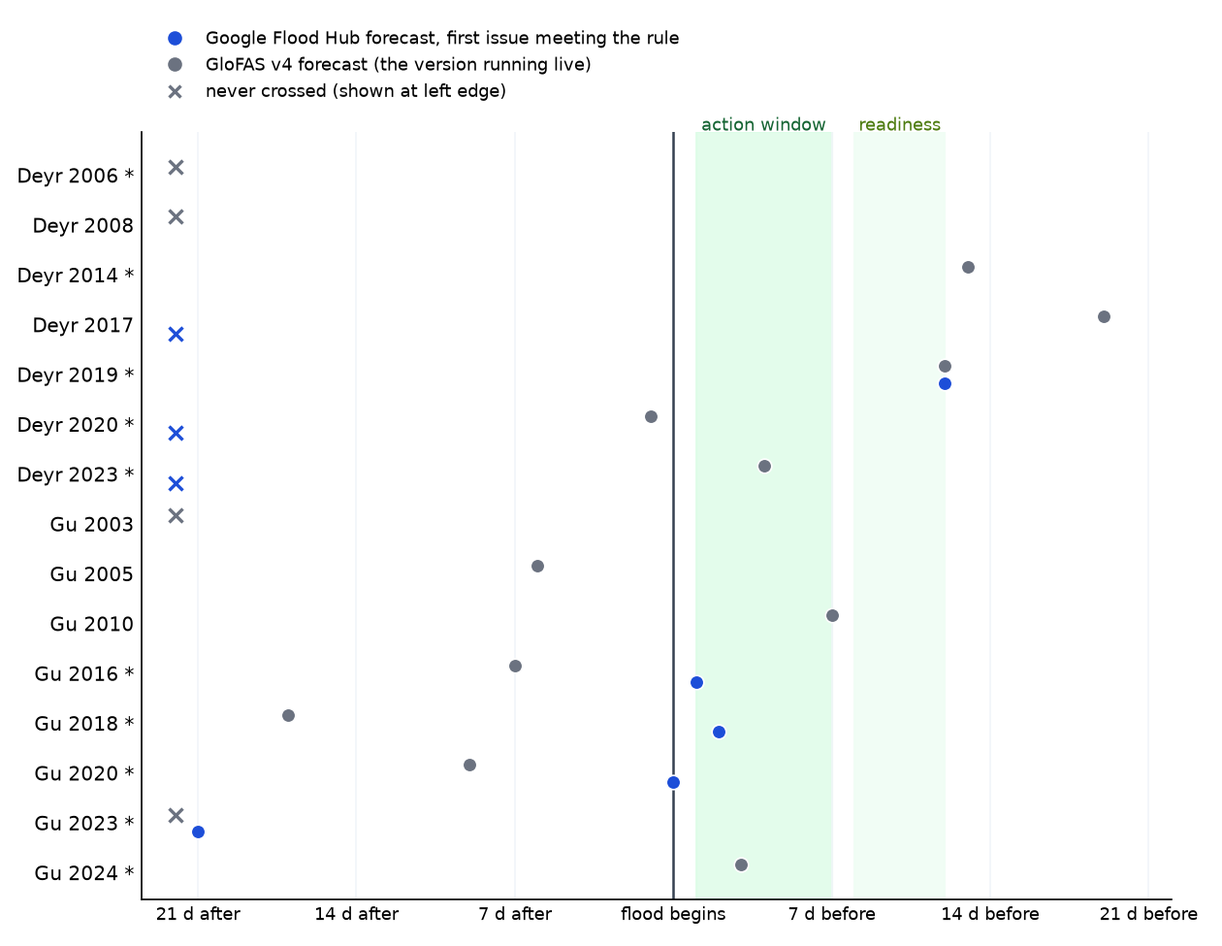
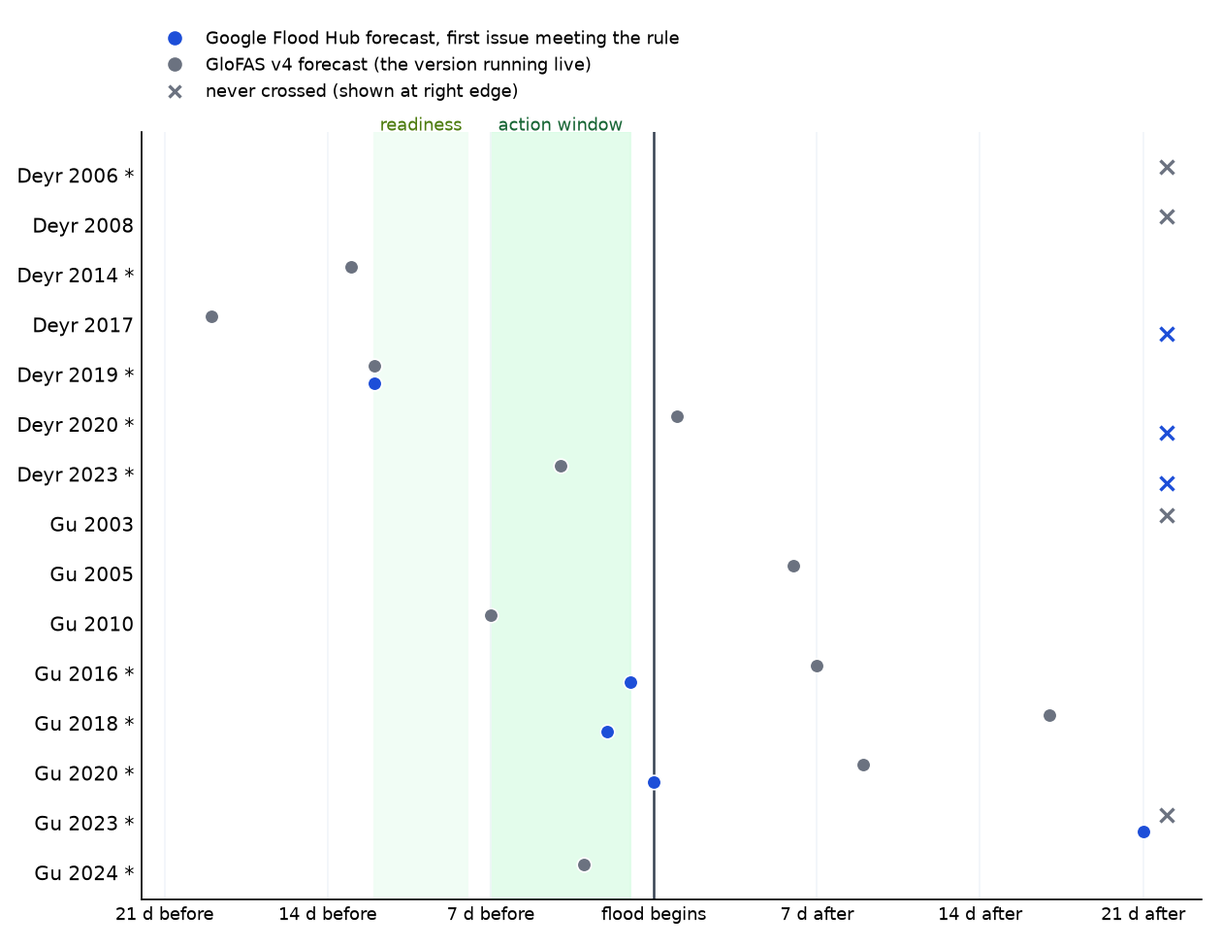
Summary page: leads plot runs left to right in time
Before the flood on the left, after on the right; the action and readiness
bands sit left of the flood line and never-crossed marks at the right edge.

diff --git a/pages/trigger-single-model/summary.html b/pages/trigger-single-model/summary.html
@@ -28,4 +28,4 @@ details{margin:14px 0} summary{cursor:pointer;font-weight:600;padding:4px 0;colo
 <header><div class="wrap"><small>Somalia Riverine Flood Trigger / summary</small>
 <h1>How we got to the trigger</h1>
 <p>From what counts as a flood to what runs live, with the evidence each choice rests on. Figures are for 1999 to 2023 unless stated. Full analysis: <a href="index.html" style="color:#fff">trigger analysis page</a>.</p></div></header>
-<div class="wrap"><h2>The trigger</h2><p>Two rivers, two rainy seasons, four windows. Each window runs on one forecast source and one rule; any one window activating releases the full allocation.</p><div class='tw'><table><thead><tr><th>Window</th><th>Season</th><th>Source</th><th>Rule</th><th>Gauges</th></tr></thead><tbody><tr><td>Deyr Juba</td><td>October to December</td><td>GloFAS</td><td>3 of 4 gauges forecast over their own 1-in-4 level on the same day</td><td>Dollow, Luuq, Bardheere, Bualle</td></tr><tr><td>Deyr Shabelle</td><td>October to December</td><td>GloFAS</td><td>2 of 3 gauges forecast over their own 1-in-4 level on the same day</td><td>Belet Weyne, Bulo Burti, Jowhar</td></tr><tr><td>Gu Juba</td><td>March to May</td><td>Google Flood Hub</td><td>3 of 4 gauges forecast over their own 1-in-5 level on the same day</td><td>Dollow, Luuq, Bardheere, Bualle</td></tr><tr><td>Gu Shabelle</td><td>March to May</td><td>Google Flood Hub</td><td>2 of 3 gauges forecast over their own 1-in-6 level on the same day</td><td>Belet Weyne, Bulo Burti, Jowhar</td></tr></tbody></table></div><p class="note">Readiness activates 8 to 12 days ahead, on the GloFAS ensemble forecast in all windows or on a SWALIM moderate flood risk alert for either river, and releases the mobilisation share; action activates 1 to 7 days ahead and releases the rest. Thresholds are fitted on each source's own record, so a model that runs high is judged against itself.</p><h2>What counts as a flood</h2><p>The trigger is scored against what the rivers did, from the SWALIM gauge record. A river has a flood season when two of its gauges reach their own 1-in-3 level, a severe season when two reach 1-in-5. Each gauge's levels are fitted on its own 2000 to 2023 record.</p><div class='tw'><table><thead><tr><th>Window</th><th class="n">Flood seasons</th><th class="n">Severe</th><th>Severe years</th></tr></thead><tbody><tr><td>Deyr Juba</td><td class="n">5</td><td class="n">3</td><td>2006, 2014, 2023</td></tr><tr><td>Deyr Shabelle</td><td class="n">6</td><td class="n">5</td><td>2006, 2014, 2019, 2020, 2023</td></tr><tr><td>Gu Juba</td><td class="n">6</td><td class="n">3</td><td>2018, 2020, 2023</td></tr><tr><td>Gu Shabelle</td><td class="n">7</td><td class="n">3</td><td>2016, 2020, 2023</td></tr></tbody></table></div><p class="note">Across both rivers: 12 flood years, 7 severe. Gauges are capped at bank full, so the largest floods record the same reading, and a season where only one gauge crosses does not count even at bank full (Gu 2021 at Belet Weyne).</p><h2>Which source, and why</h2><p>Three global models were candidates: Google Flood Hub, GloFAS and GEOGloWS. GEOGloWS runs 4 to 10 times too high on the Shabelle and has no forecast archive, so it drops out. The other two were tested twice on each window: do they order the flood seasons the way the gauges did, and do they catch the severe seasons when the window's rule is applied to their own record.</p><div class='tw'><table><thead><tr><th>Window</th><th class="n">Agreement: Google</th><th class="n">GloFAS v5</th><th class="n">GloFAS v4</th><th class="n">Severe caught: Google</th><th class="n">GloFAS v5</th><th class="n">GloFAS v4</th><th>Chosen</th></tr></thead><tbody><tr><td>Deyr Juba</td><td class="n">0.36</td><td class="n pick">0.32</td><td class="n">0.63</td><td class="n">2 of 3, 3 false</td><td class="n pick">2 of 3, 0 false</td><td class="n">2 of 3, 3 false</td><td>GloFAS</td></tr><tr><td>Deyr Shabelle</td><td class="n">0.67</td><td class="n pick">0.77</td><td class="n">0.00</td><td class="n">4 of 5, 1 false</td><td class="n pick">5 of 5, 1 false</td><td class="n">3 of 5, 3 false</td><td>GloFAS</td></tr><tr><td>Gu Juba</td><td class="n pick">0.50</td><td class="n">-0.48</td><td class="n">0.05</td><td class="n pick">2 of 3, 1 false</td><td class="n">2 of 3, 0 false</td><td class="n">2 of 3, 0 false</td><td>Google Flood Hub</td></tr><tr><td>Gu Shabelle</td><td class="n pick">0.08</td><td class="n">0.04</td><td class="n">-0.49</td><td class="n pick">2 of 3, 1 false</td><td class="n">2 of 3, 0 false</td><td class="n">1 of 3, 0 false</td><td>Google Flood Hub</td></tr></tbody></table></div><figure><img src="figs/s_agreement.png" alt="Agreement with the gauges in flood seasons, by window and model"><figcaption>Agreement: rank correlation between the model's seasonal peak and the gauge's, over the gauge's own 1-in-3 seasons only (4 to 10 per gauge), median across the window's gauges. The ringed dot is the source the window runs on. Severe caught, in the table, is at the window's rule; false is activations in years with no gauge flood.</figcaption></figure><p>Google Flood Hub carries Gu: it leads on agreement, matches GloFAS on severe seasons caught (with one activation in a year with no gauge flood, 2013, that GloFAS does not have), and its Gu forecasts arrive before the flood where GloFAS v4's mostly arrive after it, as the next section shows. GloFAS carries Deyr: Google over-activates on the Juba there (three activations with no flood) and misses the Shabelle in 2020, while GloFAS's Deyr record is clean. GloFAS v4, the version running live, agrees least with the gauges (pooled 0.03 against 0.43 for Google) and catches one severe Gu season of three on the Shabelle. Gu Shabelle reads near zero on agreement for every model because the gauge is capped at bank full in the largest floods; a limit of the record, not of the models.</p><h2>How often it activates</h2><p>Every threshold sits at 1-in-3 or rarer; the vote counts were set so the whole mechanism activates about once in three years while still catching every severe season.</p><div class='tw'><table><thead><tr><th></th><th class="n">Activations, 25 years</th><th>Return period</th><th>Years</th></tr></thead><tbody><tr><td>Deyr Juba</td><td class="n">2</td><td>1-in-13.0</td><td>2006, 2023</td></tr><tr><td>Deyr Shabelle</td><td class="n">6</td><td>1-in-4.3</td><td>2006, 2013, 2014, 2019, 2020, 2023</td></tr><tr><td>Gu Juba</td><td class="n">4</td><td>1-in-6.5</td><td>2013, 2016, 2018, 2020</td></tr><tr><td>Gu Shabelle</td><td class="n">4</td><td>1-in-6.5</td><td>2013, 2016, 2018, 2020</td></tr><tr><td>Juba, either window</td><td class="n">6</td><td>1-in-4.3</td><td>2006, 2013, 2016, 2018, 2020, 2023</td></tr><tr><td>Shabelle, either window</td><td class="n">8</td><td>1-in-3.2</td><td>2006, 2013, 2014, 2016, 2018, 2019, 2020, 2023</td></tr><tr><td>Whole mechanism</td><td class="n">8</td><td>1-in-3.2</td><td>2006, 2013, 2014, 2016, 2018, 2019, 2020, 2023</td></tr></tbody></table></div><figure><img src="figs/s_activations.png" alt="Flood seasons and activations by year and window"><figcaption>Squares: gauge flood seasons, dark where severe. Dots: years the window activates on its source, Google Flood Hub in Gu and GloFAS in Deyr. 8 activations in 25 years, all 7 severe seasons caught, one activation with no gauge flood behind it (2013, a year SWALIM and WFP both record as a major flood). Return periods are Weibull, (years + 1) over activations.</figcaption></figure><h2>Checked on the forecasts</h2><p>The tests above use each model's record of the past. A trigger runs on forecasts, so the historical forecasts were replayed to find the day the alert would have gone out, at lead times of 1 to 7 days, against the day the flood began at the gauges. Either river counts. Only Google Flood Hub (2016 to 2023) and GloFAS v4 (2003 to 2023, plus the live Gu 2024 forecasts) have archives, so this is a comparison of those two.</p><figure><img src="figs/s_leads.png" alt="Lead time of the first forecast issue meeting the rule, per flood season"><figcaption>One row per flood season, * severe. Green: the action window, 1 to 7 days before the flood; pale green: readiness. Points right of the line are alerts that went out before the flood began.</figcaption></figure><p>Deyr: GloFAS v4 activated before the flood in 4 of 7 seasons and was first in 3 of the 4 both archives cover. Gu: Google was first in all 4, and on the Shabelle gave 10 to 13 days of warning in three of four seasons where GloFAS v4 gave 3 days once and nothing in the other three. The lead-time evidence and the calibration choice were made independently and agree.</p><details><summary>Flood by flood</summary><div class='tw'><table><thead><tr><th>Season</th><th>River(s) that flooded</th><th>Flood began</th><th>Google Flood Hub forecast</th><th>GloFAS v4 forecast</th><th>First</th></tr></thead><tbody><tr><td>Deyr 2006 *</td><td>Juba and Shabelle</td><td>30 Oct</td><td><span class="pill na">no archive</span></td><td><span class="pill never">never crossed</span></td><td></td></tr><tr><td>Deyr 2008</td><td>Juba and Shabelle</td><td>15 Nov</td><td><span class="pill na">no archive</span></td><td><span class="pill never">never crossed</span></td><td></td></tr><tr><td>Deyr 2014 *</td><td>Juba and Shabelle</td><td>20 Oct</td><td><span class="pill na">no archive</span></td><td><span class="pill before">13 d before</span><span class="who">Shabelle, 7 Oct</span></td><td></td></tr><tr><td>Deyr 2017</td><td>Juba</td><td>7 Nov</td><td><span class="pill never">never crossed</span></td><td><span class="pill before">19 d before</span><span class="who">Juba, 19 Oct</span></td><td>GloFAS v4</td></tr><tr><td>Deyr 2019 *</td><td>Shabelle</td><td>14 Oct</td><td><span class="pill before">12 d before</span><span class="who">Shabelle, 2 Oct</span></td><td><span class="pill before">12 d before</span><span class="who">Shabelle, 2 Oct</span></td><td>tie</td></tr><tr><td>Deyr 2020 *</td><td>Shabelle</td><td>1 Oct</td><td><span class="pill never">never crossed</span></td><td><span class="pill after">1 d after</span><span class="who">Shabelle, 2 Oct</span></td><td>GloFAS v4</td></tr><tr><td>Deyr 2023 *</td><td>Juba and Shabelle</td><td>25 Oct</td><td><span class="pill never">never crossed</span></td><td><span class="pill before">4 d before</span><span class="who">Juba, 21 Oct</span></td><td>GloFAS v4</td></tr><tr><td>Gu 2003</td><td>Shabelle</td><td>11 May</td><td><span class="pill na">no archive</span></td><td><span class="pill never">never crossed</span></td><td></td></tr><tr><td>Gu 2005</td><td>Juba and Shabelle</td><td>12 May</td><td><span class="pill na">no archive</span></td><td><span class="pill after">6 d after</span><span class="who">Shabelle, 18 May</span></td><td></td></tr><tr><td>Gu 2010</td><td>Juba and Shabelle</td><td>18 May</td><td><span class="pill na">no archive</span></td><td><span class="pill before">7 d before</span><span class="who">Shabelle, 11 May</span></td><td></td></tr><tr><td>Gu 2016 *</td><td>Juba and Shabelle</td><td>1 May</td><td><span class="pill before">1 d before</span><span class="who">Shabelle, 30 Apr</span></td><td><span class="pill after">7 d after</span><span class="who">Shabelle, 8 May</span></td><td>Google</td></tr><tr><td>Gu 2018 *</td><td>Juba and Shabelle</td><td>17 Apr</td><td><span class="pill before">2 d before</span><span class="who">Juba, 15 Apr</span></td><td><span class="pill after">17 d after</span><span class="who">Juba, 4 May</span></td><td>Google</td></tr><tr><td>Gu 2020 *</td><td>Juba and Shabelle</td><td>22 Apr</td><td><span class="pill same">same day</span><span class="who">Shabelle, 22 Apr</span></td><td><span class="pill after">9 d after</span><span class="who">Juba, 1 May</span></td><td>Google</td></tr><tr><td>Gu 2023 *</td><td>Juba and Shabelle</td><td>25 Mar</td><td><span class="pill after">32 d after</span><span class="who">Shabelle, 26 Apr</span></td><td><span class="pill never">never crossed</span></td><td>Google</td></tr><tr><td>Gu 2024 *</td><td>Juba and Shabelle</td><td>8 May</td><td><span class="pill na">no archive</span></td><td><span class="pill before">3 d before</span><span class="who">Juba, 5 May</span></td><td></td></tr></tbody></table></div></details><h2>SWALIM's alerts, and the fail-safe</h2><p>SWALIM's flood bulletins were first in 6 of the 8 seasons where both SWALIM and the window's source flagged, and in 5 seasons only SWALIM flagged. They are forward-looking and often early, so a SWALIM moderate flood risk alert for either river activates readiness. They cannot carry the action phase: CERF needs an activation basis that can be backtested, and the bulletins are expert judgement rather than a fixed rule.</p><p>If every forecast misses, a gauge at bank full is the fail-safe. On the record that would have activated 4 seasons no forecast caught, including Gu 2023 on the Shabelle, the one severe season every model missed. Where a forecast also activated, bank full came 3 to 14 days later: coverage, not lead time.</p><details><summary>SWALIM against the window's source, season by season</summary><div class='tw'><table><thead><tr><th>Season</th><th>River</th><th>SWALIM first bulletin</th><th>Who was first</th></tr></thead><tbody><tr><td>Deyr 2006</td><td>Juba</td><td>2006-10-31</td><td>GloFAS v5 2 d before SWALIM</td></tr><tr><td>Deyr 2006</td><td>Shabelle</td><td>2006-10-31</td><td>SWALIM 2 d before GloFAS v5</td></tr><tr><td>Deyr 2014</td><td>Juba</td><td>2014-10-15</td><td>SWALIM only; GloFAS v5 never crossed</td></tr><tr><td>Deyr 2014</td><td>Shabelle</td><td>2014-10-15</td><td>SWALIM 1 d before GloFAS v5</td></tr><tr><td>Deyr 2019</td><td>Juba</td><td>2019-10-22</td><td>SWALIM only; GloFAS v5 never crossed</td></tr><tr><td>Deyr 2019</td><td>Shabelle</td><td>2019-10-22</td><td>GloFAS v5 11 d before SWALIM</td></tr><tr><td>Deyr 2020</td><td>Shabelle</td><td>2020-09-08</td><td>no bulletin for the October rise</td></tr><tr><td>Deyr 2023</td><td>Juba</td><td>2023-10-20</td><td>SWALIM 9 d before GloFAS v5</td></tr><tr><td>Deyr 2023</td><td>Shabelle</td><td>2023-10-21</td><td>SWALIM 19 d before GloFAS v5</td></tr><tr><td>Gu 2016</td><td>Shabelle</td><td>no bulletin</td><td>no SWALIM bulletin; Google 12 May</td></tr><tr><td>Gu 2020</td><td>Juba</td><td>2020-04-27</td><td>SWALIM 2 d before Google</td></tr><tr><td>Gu 2020</td><td>Shabelle</td><td>2020-04-27</td><td>SWALIM 3 d before Google</td></tr><tr><td>Gu 2021</td><td>Juba</td><td>2021-05-10</td><td>SWALIM only; Google never crossed</td></tr><tr><td>Gu 2021</td><td>Shabelle</td><td>2021-05-10</td><td>SWALIM only; Google never crossed</td></tr><tr><td>Gu 2023</td><td>Shabelle</td><td>2023-05-08</td><td>SWALIM only; Google never crossed</td></tr><tr><td>Gu 2024</td><td>Juba</td><td>2024-05-09</td><td>Google record ends 2023</td></tr><tr><td>Gu 2024</td><td>Shabelle</td><td>2024-04-19</td><td>Google record ends 2023</td></tr></tbody></table></div></details><h2>What runs live, and what is open</h2><ul><li><b>GloFAS version 4 runs both phases today.</b> Deyr is calibrated on version 5, which has no published forecast yet; Gu on Google Flood Hub, to which there is no API access yet. Version 4 stands in with levels refitted on its own record.</li><li><b>Two gauges have stopped reporting</b>: Bardheere from 30 November 2023, Bualle from 14 March 2024.</li><li><b>Impact years are not yet defined.</b> The benchmark is gauge levels, not people affected; 2013 and 2021 show why an impact cross-check is the next step. Each window holds three to five severe seasons, so every difference on this page is a one- or two-event difference.</li></ul><footer>Generated 2026-09-14 from the trigger analysis outputs; every number is recomputed from them and checked against the analysis page when the page is built.</footer></div></body></html>
+<div class="wrap"><h2>The trigger</h2><p>Two rivers, two rainy seasons, four windows. Each window runs on one forecast source and one rule; any one window activating releases the full allocation.</p><div class='tw'><table><thead><tr><th>Window</th><th>Season</th><th>Source</th><th>Rule</th><th>Gauges</th></tr></thead><tbody><tr><td>Deyr Juba</td><td>October to December</td><td>GloFAS</td><td>3 of 4 gauges forecast over their own 1-in-4 level on the same day</td><td>Dollow, Luuq, Bardheere, Bualle</td></tr><tr><td>Deyr Shabelle</td><td>October to December</td><td>GloFAS</td><td>2 of 3 gauges forecast over their own 1-in-4 level on the same day</td><td>Belet Weyne, Bulo Burti, Jowhar</td></tr><tr><td>Gu Juba</td><td>March to May</td><td>Google Flood Hub</td><td>3 of 4 gauges forecast over their own 1-in-5 level on the same day</td><td>Dollow, Luuq, Bardheere, Bualle</td></tr><tr><td>Gu Shabelle</td><td>March to May</td><td>Google Flood Hub</td><td>2 of 3 gauges forecast over their own 1-in-6 level on the same day</td><td>Belet Weyne, Bulo Burti, Jowhar</td></tr></tbody></table></div><p class="note">Readiness activates 8 to 12 days ahead, on the GloFAS ensemble forecast in all windows or on a SWALIM moderate flood risk alert for either river, and releases the mobilisation share; action activates 1 to 7 days ahead and releases the rest. Thresholds are fitted on each source's own record, so a model that runs high is judged against itself.</p><h2>What counts as a flood</h2><p>The trigger is scored against what the rivers did, from the SWALIM gauge record. A river has a flood season when two of its gauges reach their own 1-in-3 level, a severe season when two reach 1-in-5. Each gauge's levels are fitted on its own 2000 to 2023 record.</p><div class='tw'><table><thead><tr><th>Window</th><th class="n">Flood seasons</th><th class="n">Severe</th><th>Severe years</th></tr></thead><tbody><tr><td>Deyr Juba</td><td class="n">5</td><td class="n">3</td><td>2006, 2014, 2023</td></tr><tr><td>Deyr Shabelle</td><td class="n">6</td><td class="n">5</td><td>2006, 2014, 2019, 2020, 2023</td></tr><tr><td>Gu Juba</td><td class="n">6</td><td class="n">3</td><td>2018, 2020, 2023</td></tr><tr><td>Gu Shabelle</td><td class="n">7</td><td class="n">3</td><td>2016, 2020, 2023</td></tr></tbody></table></div><p class="note">Across both rivers: 12 flood years, 7 severe. Gauges are capped at bank full, so the largest floods record the same reading, and a season where only one gauge crosses does not count even at bank full (Gu 2021 at Belet Weyne).</p><h2>Which source, and why</h2><p>Three global models were candidates: Google Flood Hub, GloFAS and GEOGloWS. GEOGloWS runs 4 to 10 times too high on the Shabelle and has no forecast archive, so it drops out. The other two were tested twice on each window: do they order the flood seasons the way the gauges did, and do they catch the severe seasons when the window's rule is applied to their own record.</p><div class='tw'><table><thead><tr><th>Window</th><th class="n">Agreement: Google</th><th class="n">GloFAS v5</th><th class="n">GloFAS v4</th><th class="n">Severe caught: Google</th><th class="n">GloFAS v5</th><th class="n">GloFAS v4</th><th>Chosen</th></tr></thead><tbody><tr><td>Deyr Juba</td><td class="n">0.36</td><td class="n pick">0.32</td><td class="n">0.63</td><td class="n">2 of 3, 3 false</td><td class="n pick">2 of 3, 0 false</td><td class="n">2 of 3, 3 false</td><td>GloFAS</td></tr><tr><td>Deyr Shabelle</td><td class="n">0.67</td><td class="n pick">0.77</td><td class="n">0.00</td><td class="n">4 of 5, 1 false</td><td class="n pick">5 of 5, 1 false</td><td class="n">3 of 5, 3 false</td><td>GloFAS</td></tr><tr><td>Gu Juba</td><td class="n pick">0.50</td><td class="n">-0.48</td><td class="n">0.05</td><td class="n pick">2 of 3, 1 false</td><td class="n">2 of 3, 0 false</td><td class="n">2 of 3, 0 false</td><td>Google Flood Hub</td></tr><tr><td>Gu Shabelle</td><td class="n pick">0.08</td><td class="n">0.04</td><td class="n">-0.49</td><td class="n pick">2 of 3, 1 false</td><td class="n">2 of 3, 0 false</td><td class="n">1 of 3, 0 false</td><td>Google Flood Hub</td></tr></tbody></table></div><figure><img src="figs/s_agreement.png" alt="Agreement with the gauges in flood seasons, by window and model"><figcaption>Agreement: rank correlation between the model's seasonal peak and the gauge's, over the gauge's own 1-in-3 seasons only (4 to 10 per gauge), median across the window's gauges. The ringed dot is the source the window runs on. Severe caught, in the table, is at the window's rule; false is activations in years with no gauge flood.</figcaption></figure><p>Google Flood Hub carries Gu: it leads on agreement, matches GloFAS on severe seasons caught (with one activation in a year with no gauge flood, 2013, that GloFAS does not have), and its Gu forecasts arrive before the flood where GloFAS v4's mostly arrive after it, as the next section shows. GloFAS carries Deyr: Google over-activates on the Juba there (three activations with no flood) and misses the Shabelle in 2020, while GloFAS's Deyr record is clean. GloFAS v4, the version running live, agrees least with the gauges (pooled 0.03 against 0.43 for Google) and catches one severe Gu season of three on the Shabelle. Gu Shabelle reads near zero on agreement for every model because the gauge is capped at bank full in the largest floods; a limit of the record, not of the models.</p><h2>How often it activates</h2><p>Every threshold sits at 1-in-3 or rarer; the vote counts were set so the whole mechanism activates about once in three years while still catching every severe season.</p><div class='tw'><table><thead><tr><th></th><th class="n">Activations, 25 years</th><th>Return period</th><th>Years</th></tr></thead><tbody><tr><td>Deyr Juba</td><td class="n">2</td><td>1-in-13.0</td><td>2006, 2023</td></tr><tr><td>Deyr Shabelle</td><td class="n">6</td><td>1-in-4.3</td><td>2006, 2013, 2014, 2019, 2020, 2023</td></tr><tr><td>Gu Juba</td><td class="n">4</td><td>1-in-6.5</td><td>2013, 2016, 2018, 2020</td></tr><tr><td>Gu Shabelle</td><td class="n">4</td><td>1-in-6.5</td><td>2013, 2016, 2018, 2020</td></tr><tr><td>Juba, either window</td><td class="n">6</td><td>1-in-4.3</td><td>2006, 2013, 2016, 2018, 2020, 2023</td></tr><tr><td>Shabelle, either window</td><td class="n">8</td><td>1-in-3.2</td><td>2006, 2013, 2014, 2016, 2018, 2019, 2020, 2023</td></tr><tr><td>Whole mechanism</td><td class="n">8</td><td>1-in-3.2</td><td>2006, 2013, 2014, 2016, 2018, 2019, 2020, 2023</td></tr></tbody></table></div><figure><img src="figs/s_activations.png" alt="Flood seasons and activations by year and window"><figcaption>Squares: gauge flood seasons, dark where severe. Dots: years the window activates on its source, Google Flood Hub in Gu and GloFAS in Deyr. 8 activations in 25 years, all 7 severe seasons caught, one activation with no gauge flood behind it (2013, a year SWALIM and WFP both record as a major flood). Return periods are Weibull, (years + 1) over activations.</figcaption></figure><h2>Checked on the forecasts</h2><p>The tests above use each model's record of the past. A trigger runs on forecasts, so the historical forecasts were replayed to find the day the alert would have gone out, at lead times of 1 to 7 days, against the day the flood began at the gauges. Either river counts. Only Google Flood Hub (2016 to 2023) and GloFAS v4 (2003 to 2023, plus the live Gu 2024 forecasts) have archives, so this is a comparison of those two.</p><figure><img src="figs/s_leads.png" alt="Lead time of the first forecast issue meeting the rule, per flood season"><figcaption>One row per flood season, * severe. Green: the action window, 1 to 7 days before the flood; pale green: readiness. Points left of the line are alerts that went out before the flood began; points to the right came after it.</figcaption></figure><p>Deyr: GloFAS v4 activated before the flood in 4 of 7 seasons and was first in 3 of the 4 both archives cover. Gu: Google was first in all 4, and on the Shabelle gave 10 to 13 days of warning in three of four seasons where GloFAS v4 gave 3 days once and nothing in the other three. The lead-time evidence and the calibration choice were made independently and agree.</p><details><summary>Flood by flood</summary><div class='tw'><table><thead><tr><th>Season</th><th>River(s) that flooded</th><th>Flood began</th><th>Google Flood Hub forecast</th><th>GloFAS v4 forecast</th><th>First</th></tr></thead><tbody><tr><td>Deyr 2006 *</td><td>Juba and Shabelle</td><td>30 Oct</td><td><span class="pill na">no archive</span></td><td><span class="pill never">never crossed</span></td><td></td></tr><tr><td>Deyr 2008</td><td>Juba and Shabelle</td><td>15 Nov</td><td><span class="pill na">no archive</span></td><td><span class="pill never">never crossed</span></td><td></td></tr><tr><td>Deyr 2014 *</td><td>Juba and Shabelle</td><td>20 Oct</td><td><span class="pill na">no archive</span></td><td><span class="pill before">13 d before</span><span class="who">Shabelle, 7 Oct</span></td><td></td></tr><tr><td>Deyr 2017</td><td>Juba</td><td>7 Nov</td><td><span class="pill never">never crossed</span></td><td><span class="pill before">19 d before</span><span class="who">Juba, 19 Oct</span></td><td>GloFAS v4</td></tr><tr><td>Deyr 2019 *</td><td>Shabelle</td><td>14 Oct</td><td><span class="pill before">12 d before</span><span class="who">Shabelle, 2 Oct</span></td><td><span class="pill before">12 d before</span><span class="who">Shabelle, 2 Oct</span></td><td>tie</td></tr><tr><td>Deyr 2020 *</td><td>Shabelle</td><td>1 Oct</td><td><span class="pill never">never crossed</span></td><td><span class="pill after">1 d after</span><span class="who">Shabelle, 2 Oct</span></td><td>GloFAS v4</td></tr><tr><td>Deyr 2023 *</td><td>Juba and Shabelle</td><td>25 Oct</td><td><span class="pill never">never crossed</span></td><td><span class="pill before">4 d before</span><span class="who">Juba, 21 Oct</span></td><td>GloFAS v4</td></tr><tr><td>Gu 2003</td><td>Shabelle</td><td>11 May</td><td><span class="pill na">no archive</span></td><td><span class="pill never">never crossed</span></td><td></td></tr><tr><td>Gu 2005</td><td>Juba and Shabelle</td><td>12 May</td><td><span class="pill na">no archive</span></td><td><span class="pill after">6 d after</span><span class="who">Shabelle, 18 May</span></td><td></td></tr><tr><td>Gu 2010</td><td>Juba and Shabelle</td><td>18 May</td><td><span class="pill na">no archive</span></td><td><span class="pill before">7 d before</span><span class="who">Shabelle, 11 May</span></td><td></td></tr><tr><td>Gu 2016 *</td><td>Juba and Shabelle</td><td>1 May</td><td><span class="pill before">1 d before</span><span class="who">Shabelle, 30 Apr</span></td><td><span class="pill after">7 d after</span><span class="who">Shabelle, 8 May</span></td><td>Google</td></tr><tr><td>Gu 2018 *</td><td>Juba and Shabelle</td><td>17 Apr</td><td><span class="pill before">2 d before</span><span class="who">Juba, 15 Apr</span></td><td><span class="pill after">17 d after</span><span class="who">Juba, 4 May</span></td><td>Google</td></tr><tr><td>Gu 2020 *</td><td>Juba and Shabelle</td><td>22 Apr</td><td><span class="pill same">same day</span><span class="who">Shabelle, 22 Apr</span></td><td><span class="pill after">9 d after</span><span class="who">Juba, 1 May</span></td><td>Google</td></tr><tr><td>Gu 2023 *</td><td>Juba and Shabelle</td><td>25 Mar</td><td><span class="pill after">32 d after</span><span class="who">Shabelle, 26 Apr</span></td><td><span class="pill never">never crossed</span></td><td>Google</td></tr><tr><td>Gu 2024 *</td><td>Juba and Shabelle</td><td>8 May</td><td><span class="pill na">no archive</span></td><td><span class="pill before">3 d before</span><span class="who">Juba, 5 May</span></td><td></td></tr></tbody></table></div></details><h2>SWALIM's alerts, and the fail-safe</h2><p>SWALIM's flood bulletins were first in 6 of the 8 seasons where both SWALIM and the window's source flagged, and in 5 seasons only SWALIM flagged. They are forward-looking and often early, so a SWALIM moderate flood risk alert for either river activates readiness. They cannot carry the action phase: CERF needs an activation basis that can be backtested, and the bulletins are expert judgement rather than a fixed rule.</p><p>If every forecast misses, a gauge at bank full is the fail-safe. On the record that would have activated 4 seasons no forecast caught, including Gu 2023 on the Shabelle, the one severe season every model missed. Where a forecast also activated, bank full came 3 to 14 days later: coverage, not lead time.</p><details><summary>SWALIM against the window's source, season by season</summary><div class='tw'><table><thead><tr><th>Season</th><th>River</th><th>SWALIM first bulletin</th><th>Who was first</th></tr></thead><tbody><tr><td>Deyr 2006</td><td>Juba</td><td>2006-10-31</td><td>GloFAS v5 2 d before SWALIM</td></tr><tr><td>Deyr 2006</td><td>Shabelle</td><td>2006-10-31</td><td>SWALIM 2 d before GloFAS v5</td></tr><tr><td>Deyr 2014</td><td>Juba</td><td>2014-10-15</td><td>SWALIM only; GloFAS v5 never crossed</td></tr><tr><td>Deyr 2014</td><td>Shabelle</td><td>2014-10-15</td><td>SWALIM 1 d before GloFAS v5</td></tr><tr><td>Deyr 2019</td><td>Juba</td><td>2019-10-22</td><td>SWALIM only; GloFAS v5 never crossed</td></tr><tr><td>Deyr 2019</td><td>Shabelle</td><td>2019-10-22</td><td>GloFAS v5 11 d before SWALIM</td></tr><tr><td>Deyr 2020</td><td>Shabelle</td><td>2020-09-08</td><td>no bulletin for the October rise</td></tr><tr><td>Deyr 2023</td><td>Juba</td><td>2023-10-20</td><td>SWALIM 9 d before GloFAS v5</td></tr><tr><td>Deyr 2023</td><td>Shabelle</td><td>2023-10-21</td><td>SWALIM 19 d before GloFAS v5</td></tr><tr><td>Gu 2016</td><td>Shabelle</td><td>no bulletin</td><td>no SWALIM bulletin; Google 12 May</td></tr><tr><td>Gu 2020</td><td>Juba</td><td>2020-04-27</td><td>SWALIM 2 d before Google</td></tr><tr><td>Gu 2020</td><td>Shabelle</td><td>2020-04-27</td><td>SWALIM 3 d before Google</td></tr><tr><td>Gu 2021</td><td>Juba</td><td>2021-05-10</td><td>SWALIM only; Google never crossed</td></tr><tr><td>Gu 2021</td><td>Shabelle</td><td>2021-05-10</td><td>SWALIM only; Google never crossed</td></tr><tr><td>Gu 2023</td><td>Shabelle</td><td>2023-05-08</td><td>SWALIM only; Google never crossed</td></tr><tr><td>Gu 2024</td><td>Juba</td><td>2024-05-09</td><td>Google record ends 2023</td></tr><tr><td>Gu 2024</td><td>Shabelle</td><td>2024-04-19</td><td>Google record ends 2023</td></tr></tbody></table></div></details><h2>What runs live, and what is open</h2><ul><li><b>GloFAS version 4 runs both phases today.</b> Deyr is calibrated on version 5, which has no published forecast yet; Gu on Google Flood Hub, to which there is no API access yet. Version 4 stands in with levels refitted on its own record.</li><li><b>Two gauges have stopped reporting</b>: Bardheere from 30 November 2023, Bualle from 14 March 2024.</li><li><b>Impact years are not yet defined.</b> The benchmark is gauge levels, not people affected; 2013 and 2021 show why an impact cross-check is the next step. Each window holds three to five severe seasons, so every difference on this page is a one- or two-event difference.</li></ul><footer>Generated 2026-09-14 from the trigger analysis outputs; every number is recomputed from them and checked against the analysis page when the page is built.</footer></div></body></html>

diff --git a/scripts/page_additions/summary_page.py b/scripts/page_additions/summary_page.py
@@ -208,7 +208,7 @@ def fig_activations():
 def fig_leads():
     rows = [(s, r) for s in ("deyr", "gu") for r in fb_rows[s]]
     fig, ax = plt.subplots(figsize=(8.4, 0.34 * len(rows) + 1.4))
-    ax.axvspan(1, 7, color="#dcfce7", alpha=.8, zorder=0); ax.axvspan(8, 12, color="#f0fdf4", alpha=.9, zorder=0)
+    ax.axvspan(-7, -1, color="#dcfce7", alpha=.8, zorder=0); ax.axvspan(-12, -8, color="#f0fdf4", alpha=.9, zorder=0)
     ax.axvline(0, color="#374151", lw=1.2)
     labels = []
     for i, (s, r) in enumerate(rows):
@@ -218,18 +218,18 @@ def fig_leads():
             if v["kind"] == "na":
                 continue
             if v["lead"] is None:
-                ax.plot([-22], [i + dy], "x", color=COL[m], ms=7, mew=1.6, zorder=3)
+                ax.plot([22], [i + dy], "x", color=COL[m], ms=7, mew=1.6, zorder=3)
             else:
-                x = max(min(v["lead"], 21), -21)
+                x = max(min(-v["lead"], 21), -21)              # negative = before the flood
                 ax.plot([x], [i + dy], "o", color=COL[m], ms=7, mec="white", mew=.8, zorder=3)
     ax.set_yticks(range(len(rows))); ax.set_yticklabels(labels); ax.invert_yaxis()
-    ax.set_xlim(-23.5, 22); ax.set_xticks([-21, -14, -7, 0, 7, 14, 21])
-    ax.set_xticklabels(["21 d after", "14 d after", "7 d after", "flood begins", "7 d before", "14 d before", "21 d before"], fontsize=8.5)
-    ax.text(4, -0.9, "action window", color="#166534", fontsize=8.5, ha="center"); ax.text(10, -0.9, "readiness", color="#4d7c0f", fontsize=8.5, ha="center")
+    ax.set_xlim(-22, 23.5); ax.set_xticks([-21, -14, -7, 0, 7, 14, 21])
+    ax.set_xticklabels(["21 d before", "14 d before", "7 d before", "flood begins", "7 d after", "14 d after", "21 d after"], fontsize=8.5)
+    ax.text(-4, -0.9, "action window", color="#166534", fontsize=8.5, ha="center"); ax.text(-10, -0.9, "readiness", color="#4d7c0f", fontsize=8.5, ha="center")
     ax.grid(axis="x", color="#f1f5f9"); ax.tick_params(length=0)
     ax.legend(handles=[Line2D([], [], marker="o", ls="none", color=COL["google_grrr"], label="Google Flood Hub forecast, first issue meeting the rule"),
                        Line2D([], [], marker="o", ls="none", color=COL["glofas_v4"], label="GloFAS v4 forecast (the version running live)"),
-                       Line2D([], [], marker="x", ls="none", color="#6b7280", mew=1.6, label="never crossed (shown at left edge)")],
+                       Line2D([], [], marker="x", ls="none", color="#6b7280", mew=1.6, label="never crossed (shown at right edge)")],
               loc="lower left", frameon=False, ncol=1, bbox_to_anchor=(0, 1.02), fontsize=8.6)
     fig.tight_layout(); fig.savefig(FIGS / "s_leads.png", dpi=150); plt.close(fig)
 
@@ -329,7 +329,7 @@ add(f"<figure><img src=\"figs/s_activations.png\" alt=\"Flood seasons and activa
 
 d, g = fb_tot["deyr"], fb_tot["gu"]
 add("<h2>Checked on the forecasts</h2><p>The tests above use each model's record of the past. A trigger runs on forecasts, so the historical forecasts were replayed to find the day the alert would have gone out, at lead times of 1 to 7 days, against the day the flood began at the gauges. Either river counts. Only Google Flood Hub (2016 to 2023) and GloFAS v4 (2003 to 2023, plus the live Gu 2024 forecasts) have archives, so this is a comparison of those two.</p>")
-add("<figure><img src=\"figs/s_leads.png\" alt=\"Lead time of the first forecast issue meeting the rule, per flood season\"><figcaption>One row per flood season, * severe. Green: the action window, 1 to 7 days before the flood; pale green: readiness. Points right of the line are alerts that went out before the flood began.</figcaption></figure>")
+add("<figure><img src=\"figs/s_leads.png\" alt=\"Lead time of the first forecast issue meeting the rule, per flood season\"><figcaption>One row per flood season, * severe. Green: the action window, 1 to 7 days before the flood; pale green: readiness. Points left of the line are alerts that went out before the flood began; points to the right came after it.</figcaption></figure>")
 add(f"<p>Deyr: GloFAS v4 activated before the flood in {d['per_model']['glofas_v4'].get('before', 0)} of {d['n']} seasons and was first in {d['head_to_head']['glofas_v4']} of the {d['n_both']} both archives cover. Gu: Google was first in all {g['n_both']}, and on the Shabelle gave 10 to 13 days of warning in three of four seasons where GloFAS v4 gave 3 days once and nothing in the other three. The lead-time evidence and the calibration choice were made independently and agree.</p>")
 rows6 = [[c(f"{SEASON[s][0]} {r['year']}{' *' if r['severe'] else ''}"), c(" and ".join(r["rivers"])), c(r["first_onset"]), c(pill(r["google_grrr"])), c(pill(r["glofas_v4"])), c(escape(r["first"]))] for s in ("deyr", "gu") for r in fb_rows[s]]
 add("<details><summary>Flood by flood</summary>" + table(["Season", "River(s) that flooded", "Flood began", "Google Flood Hub forecast", "GloFAS v4 forecast", "First"], rows6) + "</details>")
